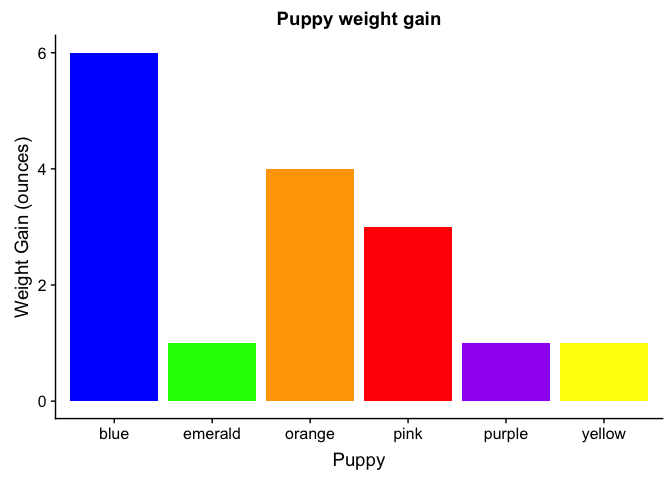
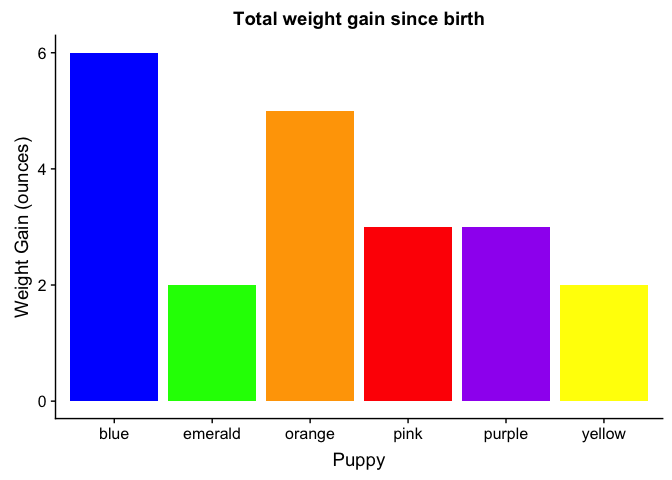
Weight for 2019-03-26.

diff --git a/vignettes/PuppyWeightGain-2019.md b/vignettes/PuppyWeightGain-2019.md
@@ -102,7 +102,7 @@ gains <- weights %>%
 gains %>% 
   ggplot(aes(puppy_id, weight_gain)) + 
   geom_col(fill = puppy_id_to_color) + 
-  ggtitle("Puppy weight gain") +
+  ggtitle("Total weight gain since birth") +
   labs(x = "Puppy", y = "Weight Gain (ounces)", color = "Puppy")
 ```
 
